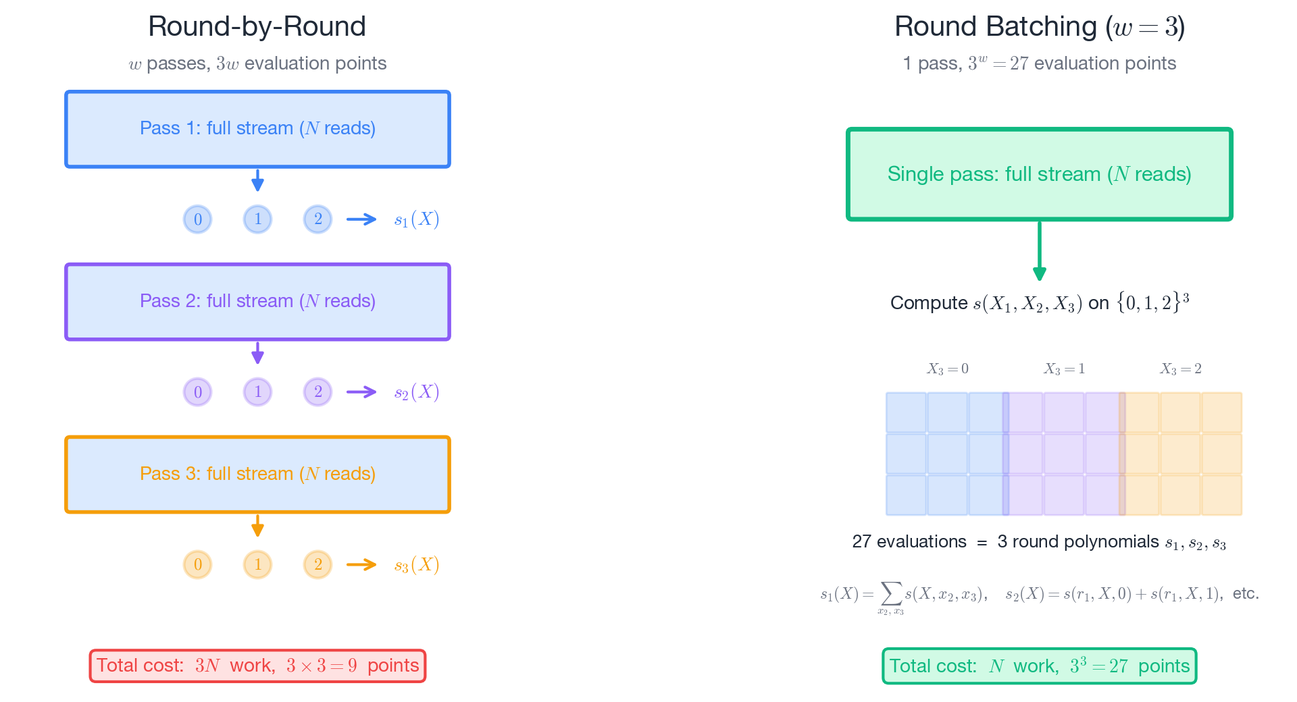
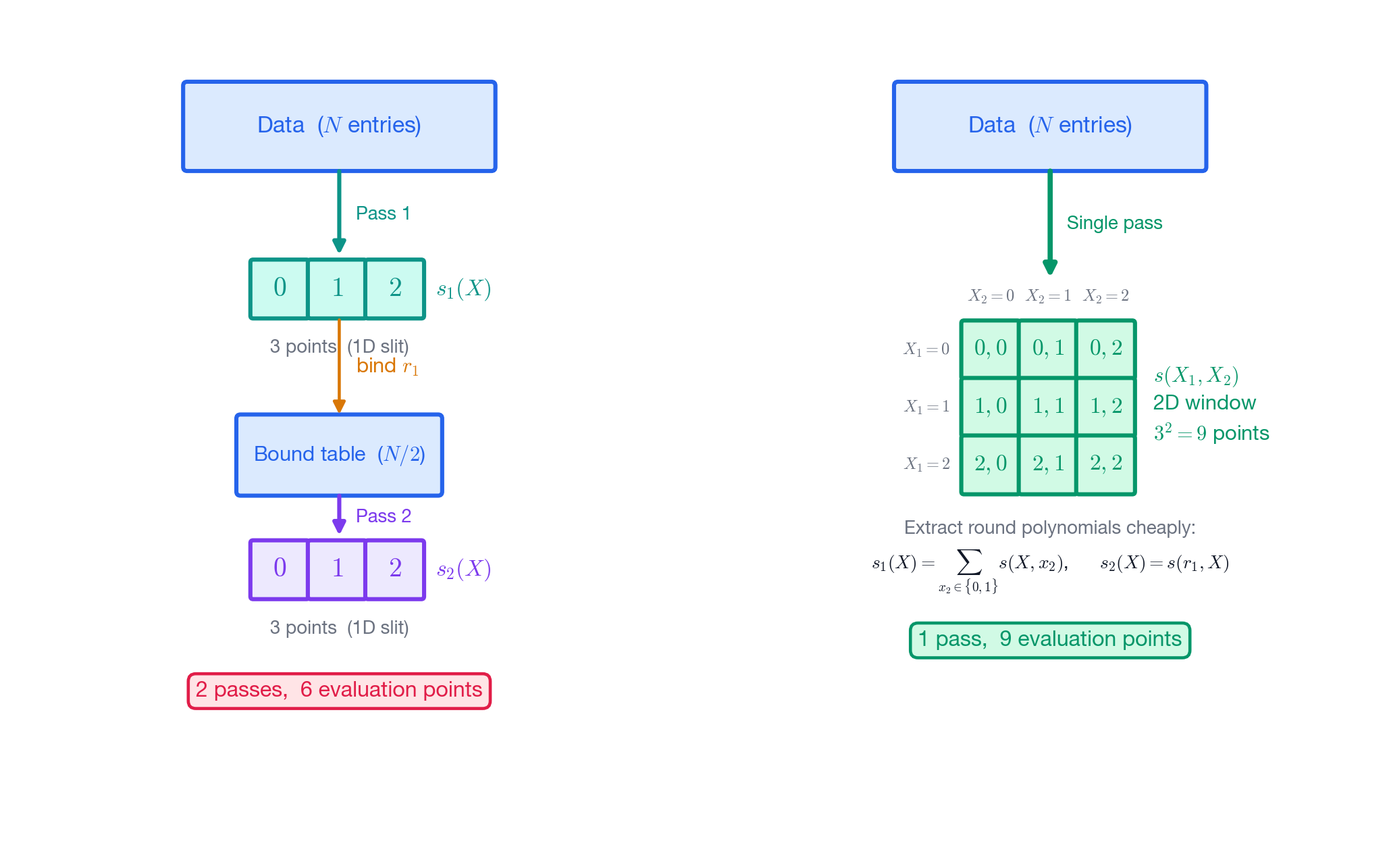
Tighten blog post prose, update figures, and move captions to markdown
- Light edit pass: reduce redundancy, fix grammar, tighten phrasing
  across all sections (main body now ~4.5k words)
- Fix LaTeX rendering issue with underscore-as-emphasis in inline math
- Update date to 2026-02-17
- Regenerate all three figures: remove embedded titles/captions,
  fix arrow anchoring (border-to-border), lengthen bind arrows,
  improve panel spacing in round-batching figure
- Move figure titles and captions into markdown using <figure>/<figcaption>

diff --git a/website/content/2025/sumcheck-proving.md b/website/content/2025/sumcheck-proving.md
@@ -2,7 +2,7 @@
 # The title of your blogpost. No sub-titles are allowed, nor are line-breaks.
 title = "Algorithms for the Sum-check Protocol"
 # Date must be written in YYYY-MM-DD format. This should be updated right before the final PR is made.
-date = 2025-11-25
+date = 2026-02-17
 
 [taxonomies]
 # Keep any areas that apply, removing ones that don't. Do not add new areas!
@@ -32,16 +32,15 @@ committee = [
 2. Word count is suggested around 2.5k words, but can be up to 5k words
 3. Everything should be understandable, well motivated, details laid out clearly -->
 
-# The Need for Verifiability
+## How to Verify Private (or Expensive) Computations
 
-We increasingly rely on computational results that we cannot feasibly verify ourselves. Such verification barriers come in two forms. First, the computation may involve private data that cannot be shared, such as financial audits, medical studies, and proprietary algorithms. Second, even when data is public, re-executing the computation may be prohibitively expensive: large scientific analyses might require days of cluster time on terabytes of data. How can we trust that such computations were performed correctly?
+We increasingly rely on computational results we cannot feasibly verify ourselves. In many cases, the computation involves private data that cannot be shared, such as financial audits, medical studies, or proprietary algorithms, making it impossible for other parties to re-run. In other cases, the data is public but re-executing the computation is prohibitively expensive: large scientific analyses might require days of cluster time on terabytes of data. How can we trust that such computations were performed correctly?
 
-Cryptographic proof systems solve this dilemma. Such protocols let an untrusted prover, who possesses some private data, convince a verifier that the data satisfies a public property. For example, this could include proving that you are over 18 or that your account has sufficient balance, without revealing any additional information, such as your full date of birth or your financial history. Furthermore, the proofs or certificates produced by such systems are relatively short, and can be verified in a matter of milliseconds, rather than the potential hours or days required to re-execute the computation. This saving further compounds if there are _many_ parties that need to verify the result.
+Cryptographic proof systems address this dilemma. They let an untrusted prover convince a verifier that some private data satisfies a public statement. For instance, you can prove that you are over 18 or that your account has sufficient balance without revealing your birthdate or financial history. Proofs are short and fast to verify—milliseconds rather than hours or days—so the savings compound when _many_ parties need to check the same result.
 
 Over the past decade, cryptographic proof systems have matured from theoretical curiosities into practical tools used for a variety of applications, including age verification [1] and blockchain scalability [2]. To make developing proof systems for each application easier, the community is converging on a common framework: _zero-knowledge virtual machines (zkVMs)_.
 
-A zkVM is a virtual computer that can run any 
-program (compiled to a common instruction-set architecture like RISC-V) and produce a certificate proving that the execution is correct. This allows developers to write programs in high-level languages like Rust or Python, compile them to RISC-V, and prove their execution correctness, all without needing deep cryptographic expertise. As these systems see wider adoption, prover efficiency becomes paramount: even for the fastest zkVMs, generating a proof is still 50,000 to 100,000 times slower than running the computation natively. Teams across academia and industry are racing to close this gap.
+A zkVM is a virtual computer that can run a program (compiled to a common instruction-set architecture like RISC-V) and produce a certificate proving that the execution was correct. This lets developers write programs in high-level languages like Rust or Python, compile them to RISC-V, and generate proofs without needing deep cryptographic expertise. As these systems see wider adoption, prover efficiency becomes paramount: even for the fastest zkVMs, generating a proof is still about 50,000 times slower than running the computation natively. Teams across academia and industry are racing to close this gap.
 
 Many state-of-the-art zkVMs, such as Jolt [3], owe much of their performance to a classical protocol from 1992: the sum-check protocol [4]. But sum-check's very success has made it a bottleneck—in Jolt, it consumes about 70% of the total proving time for large programs. In this blog post, I will introduce the sum-check protocol, detail well-known algorithms for its prover, and present a new technique that speeds up the prover in settings relevant to zkVMs, which I am currently integrating into Jolt.
 
@@ -66,11 +65,7 @@ If the original claim is correct, then \\( s_1(X) \\) has degree at most \\( d \
 \\( s_1(0) + s_1(1) = c \\).
 The verifier checks precisely these two conditions, and rejects if either fails.
 
-If both checks pass, the verifier samples a random challenge \\( r_1 \gets \mathbb{F} \\) and sends it to the prover.
-The point of this random challenge is to "pin down" the prover’s behavior at a point of the verifier’s choice:
-if the prover has lied about \\( s_1(X) \\), then with high probability (at most \\( d / \lvert \mathbb{F} \rvert \\))
-the fake \\( s_1 \\) will disagree with the true polynomial at \\( X = r_1 \\).
-If we set the finite field size to be sufficiently large, e.g., at least 128 bits for cryptographic security, then this probability is truly negligible.
+If both checks pass, the verifier samples a random challenge \\( r_1 \gets \mathbb{F} \\) and sends it to the prover. This random point forces consistency: if the prover sent a fake low-degree \\( s_1 \\), then except with probability at most \\( d / \lvert \mathbb{F} \rvert \\), it will disagree with the honest slice at \\( X=r_1 \\). Over a sufficiently large field (e.g., at least 128-bit), this error probability is negligible.
 
 After this first round of interaction, the prover and verifier have effectively reduced the problem to showing that
 $$
@@ -85,7 +80,7 @@ $$
     s_2(X) = \sum_{(x_3,\dots,x_n) \in \\{0,1\\}^{n-2}} p_1(X, x_3,\dots,x_n),
 $$
 the verifier again checks the degree and the equation \\( s_2(0) + s_2(1) = c_1 \\),
-samples a fresh random \\( r_2 \gets \mathbb{F} \\), sets the new claim \\( c_2 := s_2(r_2) \\), and continue.
+samples a fresh random \\( r_2 \gets \mathbb{F} \\), sets the new claim \\( c_2 := s_2(r_2) \\), and continues.
 
 After \\( n \\) rounds, all variables have been fixed to random challenges \\( r_1,\dots,r_n \in \mathbb{F} \\),
 and the verifier is left with a single claim of the form
@@ -96,7 +91,7 @@ that it can check directly using its oracle access to \\( p \\).
 
 What properties does the sum-check protocol satisfy? The first is **completeness**. If the original sum claim is correct and the prover follows the rules, then every round’s check passes, and at the end we really do have \\( p(r_1,\dots,r_n) = c_n \\), so the verifier accepts.
 
-The more interesting property is **soundness**, which is about what happens when the original claim is actually false. In that case, no matter how a (possibly malicious) prover behaves, at some round it must send a polynomial that is not the "right" one. Two different low-degree polynomials over a field can only agree on a small fraction of inputs (a fact known as the Schwartz–Zippel lemma [5]); thus, a random challenge \\( r_i \\) will land on a point where they differ except with probability at most \\( d / \lvert \mathbb{F}\rvert \\). Thus, even when the claim is wrong, a cheating prover can make the verifier accept only with negligible probability.
+The more interesting property is **soundness**, which is about what happens when the original claim is false. In that case, no matter how a (possibly malicious) prover behaves, at some round it must send a polynomial that is not the "right" one. By the Schwartz–Zippel lemma [5], two different degree-\\( d \\) polynomials over a field agree on at most a \\( d / \lvert \mathbb{F}\rvert \\) fraction of points, so a random challenge \\( r_i \\) catches the lie except with that probability. With a large field, this is negligible.
 
 ## Brief Interlude on Multilinear Polynomials
 
@@ -106,15 +101,13 @@ we first transform the computation trace—such as the values of all registers o
 intermediate constraint values—into polynomials, and then we use sum-check to reason about those polynomials instead of the
 original computation.
 
-The arithmetization method used in sum-check-based proof systems is to turn these traces and constraint tables into
-**multilinear polynomials**.
+In many sum-check-based proof systems, the traces and constraint tables are represented as **multilinear polynomials**.
 A multilinear polynomial is a multivariate polynomial where each variable appears with degree at most \\( 1 \\).
 For instance,
 $$
     q(X_1, X_2, X_3) = 3X_1 X_3 + 2X_2 + 5
 $$
-is multilinear, while \\( X_1^2 + X_2 \\) is not. A key fact is that a multilinear polynomial in \\( n \\) variables is _uniquely_
-determined by its values on the \\( 2^n \\) points of the **Boolean hypercube** \\( \\{0,1\\}^n \\). This gives a natural encoding of a length-\\( 2^n \\) vector \\( \mathbf{v}=(v_0,\dots,v_{2^n-1}) \\) over the finite field \\( \mathbb{F} \\).
+is multilinear, while \\( X_1^2 + X_2 \\) is not. A key fact is that a multilinear polynomial in \\( n \\) variables is uniquely determined by its values on the \\( 2^n \\) points of the **Boolean hypercube** \\( \\{0,1\\}^n \\). This gives a natural way to encode a length-\\( 2^n \\) vector \\( \mathbf{v}=(v_0,\dots,v_{2^n-1}) \\) over \\( \mathbb{F} \\).
 
 We can also make this encoding precise with a mathematical formula. Given a function \\( p : \\{0,1\\}^n \to \mathbb{F} \\) (for example, a vector of trace or constraint values indexed by
 \\( y \in \\{0,1\\}^n \\)), its **multilinear extension** is the _unique_ multilinear polynomial \\( \widetilde{p}(X_1,\dots,X_n) \\)
@@ -126,8 +119,7 @@ where the **equality polynomial** \\( \widetilde{eq} \\) is defined by
 $$
     \widetilde{eq}(\vec{X}, \vec{Y}) = \prod_{i=1}^n \big((1 - X_i)(1 - Y_i) + X_i Y_i\big).
 $$
-You should think of \\( \widetilde{eq} \\) as the indicator function of the equality relation on the Boolean hypercube. Indeed, for any \\( \vec{x}, \vec{y} \in \\{0,1\\}^n \\), we have \\( \widetilde{eq}(\vec{x}, \vec{y}) = 1 \\) if \\( \vec{x} = \vec{y} \\)
-and \\( 0 \\) otherwise. Plugging this into the multilinear extension formula, we can see that each term in the sum "picks out" the value \\( p(y) \\) at exactly one point on the hypercube, thanks to the equality polynomial \\( \widetilde{eq}(\vec{X}, y) \\).
+You can think of \\( \widetilde{eq} \\) as an indicator for equality on the Boolean hypercube: for any \\( \vec{x}, \vec{y} \in \\{0,1\\}^n \\), \\( \widetilde{eq}(\vec{x}, \vec{y}) = 1 \\) if \\( \vec{x} = \vec{y} \\) and \\( 0 \\) otherwise. Plugging this into the formula above, each term in the sum "picks out" \\( p(y) \\) at a single Boolean point.
 
 As a small example, the 2-variate multilinear extension is given by
 $$ \begin{aligned} p(X_1, X_2) = p(0,0) \cdot (1 - X_1)(1 - X_2) &+ p(0,1) \cdot (1 - X_1)X_2 \\\ + p(1,0) \cdot X_1(1 - X_2)& + p(1,1) \cdot X_1 X_2.
@@ -156,15 +148,11 @@ This pointwise condition can be bundled into a single sum over the hypercube. De
 $$
     g(x_1, x_2) = p(x_1, x_2) \cdot q(x_1, x_2),
 $$
-and consider the claim that
-$$
-    g(x_1, x_2) = 0 \quad \text{for all } (x_1, x_2) \in \\{0,1\\}^2.
-$$
-This claim is equivalent to saying that the multilinear extension \\( \widetilde{g} \\) should vanish on all Boolean points. In other words,
+and consider the claim that \\( g \\) vanishes on all Boolean points. This is equivalent to saying that the multilinear extension \\( \widetilde{g} \\) is identically zero on \\( \\{0,1\\}^2 \\). In other words,
 $$
     \sum_{(x_1, x_2) \in \\{0,1\\}^2} \widetilde{eq}\big((X_1, X_2), (x_1, x_2)\big) \cdot p(x_1, x_2) \cdot q(x_1, x_2) = 0
 $$
-as multilinear polynomials. We now reduce this to a sum-check instance by sampling a random point \\( (r_1, r_2) \in \mathbb{F}^2 \\) and checking that the polynomial vanishes at this point:
+as multilinear polynomials. We reduce this to a sum-check instance by sampling a random point \\( (r_1, r_2) \in \mathbb{F}^2 \\) and checking that it vanishes at that point:
 $$
     \sum_{(x_1, x_2) \in \\{0,1\\}^2} \widetilde{eq}\big((r_1, r_2), (x_1, x_2)\big) \cdot p(x_1, x_2) \cdot q(x_1, x_2) = 0.
 $$
@@ -173,21 +161,21 @@ we check a **single** polynomial identity at a random point. Our exposition gene
 
 ## Existing Algorithms for Sum-Check
 
-We now turn to algorithms for the prover. We will focus on the most common setting in modern proof systems: sum-check over a low-degree function applied to one or more multilinear polynomials. This captures many real applications, such as the batched zero-check we saw earlier. To simplify the exposition, we further specialize to the case of a product of two multilinear polynomials
+We now turn to prover algorithms. We will focus on the most common setting in modern proof systems: sum-check over a low-degree function applied to one or more multilinear polynomials. This captures many real applications, including the batched zero-check above. To simplify the exposition, we further specialize to the case of a product of two multilinear polynomials
 $$
     \sum_{x \in \\{0,1\\}^n} p(x) \cdot q(x) = c,
 $$
-where \\( p, q : \\{0,1\\}^n \to \mathbb{F} \\) are given by their evaluations on the Boolean hypercube. The algorithms we cover straightforwardly generalize to the product of arbitrary number of multilinear polynomials.
+where \\( p, q : \\{0,1\\}^n \to \mathbb{F} \\) are given by their evaluations on the Boolean hypercube. The algorithms we cover straightforwardly generalize to the product of an arbitrary number of multilinear polynomials.
 
 ### Linear-time algorithm
 
-The first prover algorithm we consider, following Vu, Setty, Blumberg, and Walfish [6] and Thaler [7], runs in linear time in the number of summands (which is \\( N = 2^n \\)). This algorithm is key to the efficiency of sum-check, as we can prove a statement (like a batched zero-check) with only a constant-factor computational overhead.
+The first prover algorithm we consider, following Vu, Setty, Blumberg, and Walfish [6] and Thaler [7], runs in linear time in the number of summands \\( N = 2^n \\). This is the main setting in many proof systems: it proves statements (like a batched zero-check) with only a constant-factor overhead.
 
 Recall that in the first round of sum-check, the prover needs to compute and send the univariate polynomial
 $$
     s_1(X) = \sum_{(x_2,\dots,x_n) \in \\{0,1\\}^{n-1}} p(X, x_2,\dots,x_n) \cdot q(X, x_2,\dots,x_n).
 $$
-Since \\( s_1(X) \\) has degree at most \\( 2 \\), it is completely determined by its evaluations on three distinct points, which we may choose to be \\( s_1(0), s_1(1) \\), and \\( s_1(2) \\). The prover can compute these in a single pass over the \\( 2^n \\) evaluations of \\( p \\) and \\( q \\), using three accumulators (one for each of \\( s_1(0) \\), \\( s_1(1) \\), \\( s_1(2) \\)), all initialized to zero. For each point \\( x' = (x_2,\dots,x_n) \in \\{0,1\\}^{n-1} \\), the prover looks up the evaluations of \\( p \\) and \\( q \\) at \\( (0,x') \\) and \\( (1,x') \\), and adds the corresponding product to each accumulator:
+Since \\( s_1(X) \\) has degree at most \\( 2 \\), it is determined by its values at any three points, say \\( 0,1,2 \\). The prover computes \\( s_1(0), s_1(1), s_1(2) \\) in a single pass over the \\( 2^n \\) evaluations of \\( p \\) and \\( q \\), using three accumulators initialized to zero. For each \\( x' = (x_2,\dots,x_n) \in \\{0,1\\}^{n-1} \\), it looks up \\( p \\) and \\( q \\) at \\( (0,x') \\) and \\( (1,x') \\), and adds the corresponding contributions:
 $$
     % \begin{cases}
     s_1(0) \mathrel{+}= p(0, x') \cdot q(0, x'),\quad
@@ -204,33 +192,36 @@ $$
  p(2, x') \cdot q(2, x') = (2 \cdot p(1, x') - p(0, x')) \cdot (2 \cdot q(1, x') - q(0, x')).
 $$
 
-After the verifier sends a random challenge \\( r_1 \\), the prover needs the “bound” polynomials
+After the verifier sends a random challenge \\( r_1 \\), the prover needs the _bound_ polynomials
 $$
     p_{1}(x_2,\dots,x_n) := p(r_1, x_2,\dots,x_n), \quad
     q_{1}(x_2,\dots,x_n) := q(r_1, x_2,\dots,x_n)
 $$
-in order to continue the protocol on \\( n-1 \\) variables. The linear-time algorithm explicitly computes and stores the evaluations of \\( p_{1} \\) and \\( q_{1} \\) on all \\( 2^{n-1} \\) points of \\( \\{0,1\\}^{n-1} \\). It does so by making another pass over the original evaluation tables \\( (p(x))_{x \in \\{0,1\\}^n} \\) and \\( (q(x))_{x \in \\{0,1\\}^n} \\) and computing, for each \\( (x_2,\dots,x_n) \in \\{0,1\\}^{n-1} \\), the bound evaluations via linear interpolation:
+in order to continue the protocol on \\( n-1 \\) variables. The linear-time algorithm explicitly computes and stores the evaluations of \\( p_{1} \\) and \\( q_{1} \\) on all \\( 2^{n-1} \\) points of \\( \\{0,1\\}^{n-1} \\). It does so by making another pass over the original evaluation tables \\( (p(x))\_{x \in \\{0,1\\}^n} \\) and \\( (q(x))\_{x \in \\{0,1\\}^n} \\) and computing, for each \\( (x_2,\dots,x_n) \in \\{0,1\\}^{n-1} \\), the bound evaluations via linear interpolation:
 $$ p_{1}(x_2,\dots,x_n) = (1 - r_1) \cdot p(0, x_2,\dots,x_n) + r_1 \cdot p(1, x_2,\dots,x_n),$$
 $$q_{1}(x_2,\dots,x_n) = (1 - r_1) \cdot q(0, x_2,\dots,x_n) + r_1 \cdot q(1, x_2,\dots,x_n).$$
 These new vectors of size \\( 2^{n-1} \\) serve as the "input data" for the next round: they play the same role that the original evaluation tables of \\( p \\) and \\( q \\) played in the first round, but for the reduced \\( (n{-}1) \\)-variable problem. In each subsequent round \\( i = 2, 3, \dots, n \\), the prover repeats the same pattern on these smaller vectors of evaluations to compute \\( s_i \\), then binds the next challenge \\( r_i \\) and shrinks the vectors of evaluations again, and so on.
 
-**Cost Analysis:** Given the description of the sum-check prover, it is clear that in round \\( i \\), the prover needs to perform \\( O(2^{n -i}) \\) number of field operations (additions, subtractions, and multiplications). Summing over all rounds, the total work is therefore linear in the number of summands \\( N = 2^n \\):
+**Cost Analysis:** In round \\( i \\), the prover performs \\( O(2^{n-i}) \\) field operations. Summing over rounds, the total work is linear in \\( N = 2^n \\):
 $$
     O(2^n + 2^{n-1} + \dots + 1) = O(2^n).
 $$
-![Figure 1: The linear-time sum-check prover. The evaluation table halves at each round, giving O(N) total work but requiring O(N) RAM.](./fig-linear-time.png)
+<figure>
+  <img src="./fig-linear-time.png" alt="Linear-time sum-check prover illustration." />
+  <figcaption><strong>Figure 1 (Linear-time prover).</strong> The prover computes the round polynomial \(s_i\), then binds the verifier challenge \(r_i\), halving the evaluation table each round. Total work is \(O(N)\), but it requires \(O(N)\) RAM to store bound tables.</figcaption>
+</figure>
 
-One downside of this algorithm is the need to keep **linear** storage (for instance, starting from round \\( 2 \\), where the prover needs to store \\( p_1 \\) and \\( q_1 \\)). This linear-space usage may be fine for small-to-medium sum-check instances, but eventually will become a bottleneck. Concretely, this means that on consumer hardware with (say) 16GB of RAM, we can prove a few dozen millions cycles of RISC-V program execution, but not a billion cycles. As RAM is a limited resource, this limitation motivates us to look for algorithms that use fewer memory, even at the cost of some extra recomputation.
+One downside of this algorithm is the need for **linear** storage: starting from round \\( 2 \\), the prover must store \\( p_1 \\) and \\( q_1 \\). This may be fine for small-to-medium instances, but it eventually becomes a bottleneck. Concretely, on consumer hardware with (say) 16GB of RAM, we can prove a few dozen million cycles of RISC-V execution, but not a billion. This motivates algorithms that use less memory, even at the cost of extra computation.
 
 ### Streaming algorithm with logarithmic space
 
-We now present another classic sum-check proving algorithm, by Cormode, Mitzenmacher, and Thaler [8], that is much more memory efficient.
-The setting is the following. Assume there is enough persistent storage (for example, on disk) to hold all evaluations of \\( p \\) and \\( q \\) on \\( \\{0,1\\}^n \\), but not enough RAM to store the intermediate “bound” evaluation values of \\( p_1 \\), \\( q_1 \\), and so on. Alternatively, we can generate the original evaluations of \\( p \\) and \\( q \\) cheaply on the fly, but do not have space to cache all of the bound evaluations.
+We now present another classic sum-check proving algorithm due to Cormode, Mitzenmacher, and Thaler [8] that is far more memory efficient.
+Assume there is enough persistent storage (e.g., on disk) to hold all evaluations of \\( p \\) and \\( q \\) on \\( \\{0,1\\}^n \\), but not enough RAM to store intermediate bound tables like \\( p_1 \\), \\( q_1 \\), and so on. (Equivalently, we can generate the original evaluations cheaply on the fly but cannot afford to cache the bound evaluations.)
 
-In this setting, the prover will need to perform a streaming pass over the original data in order to compute the univariate polynomial \\( s_i(X) \\) for each round \\( i \\). Recall that this polynomial is determined by its evaluations at \\( u \in \\{0,1,2\\} \\):
+In this setting, the prover makes a streaming pass over the original data in each round \\( i \\) to compute the univariate polynomial \\( s_i(X) \\). This polynomial is determined by its evaluations at \\( u \in \\{0,1,2\\} \\):
 $$
-    s_i(u) = \sum_{(x_{i+1},\dots,x_n) \in \\{0,1\\}^{n-i}} p(r_1,\dots,r_{i-1}, X, x_{i+1},\dots,x_n)
-                                           \cdot q(r_1,\dots,r_{i-1}, X, x_{i+1},\dots,x_n).
+    s_i(u) = \sum_{(x_{i+1},\dots,x_n) \in \\{0,1\\}^{n-i}} p(r_1,\dots,r_{i-1}, u, x_{i+1},\dots,x_n)
+                                           \cdot q(r_1,\dots,r_{i-1}, u, x_{i+1},\dots,x_n).
 $$
 By the multilinear extension formula and the equality polynomial introduced earlier, we can write these partially bound evaluations as a further sum
 $$
@@ -238,23 +229,26 @@ $$
 $$
 and the same holds for \\( q \\).
 
-In other words, \\( p \\) at a partially bound point \\( (r_1,\dots,r_{i-1}, u, x_{i+1},\dots,x_n) \\) is just a weighted sum of the original evaluations \\( p(y, u, x_{i+1},\dots,x_n) \\) over all \\( y \in \\{0,1\\}^{i-1} \\). Note that here \\( y \\) is a vector of \\( i-1 \\) bits representing the prefix, and since \\( u \in \\{0,1\\} \\) and \\( (x_{i+1},\dots,x_n) \in \\{0,1\\}^{n-i} \\), each such evaluation is a value from the original evaluation tables stored on disk. The weight \\( \widetilde{eq}((r_1,\dots,r_{i-1}), y) \\) depends only on the prefix \\( y \\) and the challenges so far.
+In other words, \\( p \\) at a partially bound point \\( (r_1,\dots,r_{i-1}, u, x_{i+1},\dots,x_n) \\) is a weighted sum of original evaluations \\( p(y, u, x_{i+1},\dots,x_n) \\) over all prefixes \\( y \in \\{0,1\\}^{i-1} \\), where the weight \\( \widetilde{eq}((r_1,\dots,r_{i-1}), y) \\) depends only on the challenges so far.
 
-This observation translates directly into a streaming algorithm. To compute the three required values \\( s_i(0), s_i(1), s_i(2) \\) for round \\( i \\), the prover can do the following:
+This leads to a streaming algorithm. To compute \\( s_i(0), s_i(1), s_i(2) \\) in round \\( i \\), the prover can do the following:
 1.  **Initialize:** Set three accumulators for \\( s_i(0), s_i(1), s_i(2) \\) to zero.
-2.  **Stream:** Read the original evaluation stream \\( p(x), q(x) \\) over all \\( x \in \\{0,1\\}^n \\), split into chunks of size \\( 2^{i} \\) that agrees on the suffix \\( x_{i+1},\dots,x_n \\).
-3.  **Update:** For each chunk, compute the appropriate weights based on the current round \\( i \\) and challenges \\( r_1, \dots, r_{i-1} \\) for the prefix \\( y = (x_1,\dots,x_i) \\). Importantly, the equality-polynomial weights can be computed on-the-fly in \\( O(2^i) \\) time based on the challenges \\( r_1, \dots, r_{i-1} \\). Add the weighted product terms to the respective accumulators.
+2.  **Stream:** Read the evaluation stream \\( p(x), q(x) \\) over all \\( x \in \\{0,1\\}^n \\), split into chunks of size \\( 2^{i} \\) that agree on the suffix \\( x_{i+1},\dots,x_n \\).
+3.  **Update:** For each chunk, compute the equality-polynomial weights for the prefix \\( y = (x_1,\dots,x_i) \\) from the challenges \\( r_1, \dots, r_{i-1} \\), and add the weighted product terms to the accumulators.
 4.  **Interpolate:** Once the stream is finished, the accumulators hold \\( s_i(0), s_i(1), s_i(2) \\). Use these to recover the polynomial \\( s_i(X) \\).
 
-This method never stores any intermediate "bound" tables. Instead, every round re-reads the original \\( N \\) values from the stream. This dramatically reduces the memory footprint to just \\( O(n) \\) for storing the challenges and accumulators (or \\( O(\log N) \\)).
+This method never stores intermediate _bound_ tables. Instead, every round re-reads the original \\( N \\) values from the stream, using only \\( O(n) \\) space for challenges and accumulators.
 
 **Cost Analysis:**
 *   **Time:** We iterate over the full stream of size \\( N \\) for each of the \\( n \\) rounds. The total work is \\( O(n \cdot N) = O(N \log N) \\), making this a **quasilinear-time** algorithm.
 *   **Space:** This is only \\( O(n) = O(\log N) \\) since we only need to store the \\( n \\) challenges and the three accumulators over all rounds.
 
-![Figure 2: The streaming sum-check prover. Each round re-reads the full original data from disk, but uses only O(log N) RAM.](./fig-streaming.png)
+<figure>
+  <img src="./fig-streaming.png" alt="Streaming sum-check prover illustration." />
+  <figcaption><strong>Figure 2 (Streaming prover).</strong> Each round re-reads the original evaluations \(p(x), q(x)\) and applies different weights derived from the challenges. This uses only \(O(\log N)\) RAM, but costs \(O(N \log N)\) work.</figcaption>
+</figure>
 
-This \\( O(\log N) \\)-space algorithm allows proving much larger statements than the linear-space approach, limited only by disk capacity or regeneration time rather than RAM. In practice, implementations often use a hybrid approach: stream for the first few rounds until the effective problem size shrinks enough to fit in memory (which happens before the halfway point in the protocol), then switch to the faster linear-time algorithm. However, this still leads to a large overhead compared to the linear-time algorithm, up to an order of magnitude for large instances (with \\( n \approx 30 \\)).
+This \\( O(\log N) \\)-space algorithm allows proving much larger statements than the linear-space approach, limited by disk capacity or regeneration time rather than RAM. In practice, implementations often use a hybrid approach: stream for the first few rounds until the effective problem size shrinks enough to fit in memory, then switch to the faster linear-time algorithm. Even so, the streaming phase can add substantial overhead for large instances (e.g., \\( n \approx 30 \\)).
 
 ## New Idea: Round Batching and its Benefits
 
@@ -262,7 +256,7 @@ Both the linear-time and the CMT streaming algorithm share a common structure: t
 
 What if we could break this sequential dependency? Instead of computing just one round at a time, could the prover compute, say, rounds 1 and 2 simultaneously? Or any number of consecutive rounds at once?
 
-This is the idea behind **round batching**, a technique that is recently introduced in my work [9] and the work of Bajewa et al. [10] (the latter is improved in another in-preparation work of mine). The idea turns out to bring efficiency gains for both algorithms above, especially in the setting of proving program execution. I will first discuss the mechanics of round batching, and then discuss the benefits in more detail.
+This is the idea behind **round batching**, introduced in my work [9] and independently in Baweja et al. [10] (with further improvements in follow-up work). It can speed up both prover algorithms above, especially in settings relevant to proving program execution.
 
 At first glance, this proposal seems impossible: the prover cannot know the claim for round 2 without knowing the challenge \\( r_1 \\) from round 1. The key observation is that the prover can compute a response that is **oblivious** to the future challenges. This is achieved by computing a _bivariate_ polynomial
 $$
@@ -275,13 +269,13 @@ More generally, if we want to compute \\( w \\) consecutive rounds at once, star
 $$
     s(X_1, \dots, X_w) = \sum_{x' \in \\{0,1\\}^{n-w-i}} p(r_1, \dots, r_{i-1}, X_1, \dots, X_w, x') \cdot q(r_1, \dots, r_{i-1}, X_1, \dots, X_w, x').
 $$
-Once the prover has computed this polynomial, the next \\( w \\) rounds of the sum-check protocol reduces to doing sum-check over the \\( w \\)-variate polynomial \\( s \\) itself:
+Once the prover has computed this polynomial, the next \\( w \\) rounds of the protocol reduce to running sum-check on the \\( w \\)-variate polynomial \\( s \\) itself:
 $$
 \sum_{x \in \\{0,1\\}^w} s(x) = c_i,
 $$
 as we saw in our example above with \\( i=1 \\) and \\( w=2 \\).
 
-Since \\( w \\) is often much smaller than \\( n \\), this sum-check instance is trivial to prove. The main cost is in computing \\( s(X_1, \dots, X_w) \\) itself. Since \\( s \\) is a **multi-quadratic** polynomial (having degree at most \\( 2 \\) in each variable), it is completely determined by its evaluations on the \\( \\{0,1,2\\}^w \\) grid. For instance, if \\( w = 2 \\), we can compute one of these evaluations (say \\( s(1, 2) \\)) as
+Since \\( w \\) is often much smaller than \\( n \\), this inner sum-check is easy; the main cost is computing \\( s(X_1, \dots, X_w) \\) itself. Because \\( s \\) is **multi-quadratic** (degree at most \\( 2 \\) in each variable), it is determined by its values on the \\( \\{0,1,2\\}^w \\) grid. For instance, if \\( w = 2 \\), one evaluation (say \\( s(1,2) \\)) is
 $$
     s(1, 2) = \sum_{x' \in \\{0,1\\}^{n-2}} p(r_1, \dots, r_{i-1}, 1, 2, x') \cdot q(r_1, \dots, r_{i-1}, 1, 2, x') $$
 $$
@@ -291,15 +285,18 @@ $$
     \qquad\qquad\qquad \cdot (2 \cdot q(r_1, \dots, r_{i-1}, 1, 1, x') - q(r_1, \dots, r_{i-1}, 1, 0, x')).
 $$
 
-![Figure 3: Round batching vs round-by-round. Batching w rounds into one pass trades more evaluation points for fewer streaming passes.](./fig-round-batching.png)
+<figure>
+  <img src="./fig-round-batching.png" alt="Round batching illustration comparing round-by-round vs batching." />
+  <figcaption><strong>Figure 3 (Round batching).</strong> Batching \(w\) rounds replaces a sequence of 1D “slits” (few evaluation points per round, multiple passes) with a \(w\)-dimensional “window” (more evaluation points, fewer passes).</figcaption>
+</figure>
 
-**The apparent cost.** At first glance, round batching seems to be strictly slower. In the round-by-round sum-check algorithms (whether linear-time or streaming), we only need to compute \\( 3 \\) evaluations of a quadratic polynomial every round (or \\( d+1 \\) evaluations for a general sum-check instance over a degree-\\( d \\) product of multilinears). With round batching of window \\( w \\), we need to compute \\( 3^w \\) (or \\( (d+1)^w \\) in the general case) evaluations over the \\( w \\) rounds. If we had computed round-by-round evaluations instead, this number is only \\( w \cdot (d+1) \\). The gap between \\( (d+1)^w \\) and \\( w \cdot (d+1) \\) grows very quickly - for instance, with \\( d = 2 \\) and \\( w = 3 \\), we are computing **three** times as many evaluations by batching three rounds together. Why do we even bother to explore this approach?
+**The apparent cost.** At first glance, round batching looks slower. Round-by-round sum-check computes \\( 3 \\) evaluations of a quadratic polynomial per round (or \\( d+1 \\) evaluations for degree \\( d \\)). With a batching window \\( w \\), we compute \\( 3^w \\) evaluations (or \\( (d+1)^w \\)) over those \\( w \\) rounds, instead of \\( w \cdot (d+1) \\). This gap grows quickly: with \\( d = 2 \\) and \\( w = 3 \\), batching computes **three** times as many evaluations.
 
 ### Why does round batching help?
 
 The key insight is that the cost of computing evaluations is not equal across all rounds. In particular, there are two settings where round batching leads to a speedup despite the apparent extra work.
 
-**Small-field arithmetic at the start.** In zkVMs, the underlying data (register values, memory contents) are small—typically 64-bit integers—while the proof system operates over a large, often 128-bit or even 256-bit field. Arithmetic with 64-bit integers are about **10-50x** faster compared to generic field multiplication.
+**Small-field arithmetic at the start.** In zkVMs, the underlying data (register values, memory contents) are small—typically 64-bit integers—while the proof system operates over a large field (often 128-bit or 256-bit). Arithmetic with 64-bit integers is about **10–50x** faster than full field multiplication.
 
 For sum-check involving these small values, the prover enjoys a speedup in the first round, since the original evaluations
 $$ (p(x), q(x))\_{x \in \\{0,1\\}^n} $$
@@ -307,24 +304,23 @@ are small. However, this speedup goes away in later rounds, since the bound eval
 \\[ ( p(r_1, \dots, r_{i-1},x), q(r_1, \dots, r_{i-1}, x))_{x \in \\{0,1\\}^{n-i}} \\]
 are full field elements.
 
-Round batching allows the prover to enjoy cheap multiplications in the first \\( w > 1 \\) rounds. Indeed, applying the technique to the first \\( w \\) rounds means that the prover needs to compute the evaluations
+Round batching extends this cheap-multiplication regime to the first \\( w>1 \\) rounds. Applying batching to the first \\( w \\) rounds means the prover computes evaluations of
 $$
 s(x_1, \dots, x_w) = \sum_{x' \in \\{0,1\\}^{n-w}} p(x_1, \dots, x_w, x') \cdot q(x_1, \dots, x_w, x').
 $$
-Since the original evaluations $$(p(x), q(x))\_{x \in \\{0,1\\}^n} $$ are small, the extended evaluations $$ ( p(x_1, \dots, x_w, x'), q(x_1, \dots, x_w, x'))_{(x_1, \dots, x_w) \in \\{0,1,2\\}^w, x' \in \\{0,1\\}^{n-w}}$$
-are also small, since they are simple linear combinations of the original ones. Thus, round batching trades off expensive field multiplication that would have been incurred in rounds \\( 2, \dots, w \\), with a larger number of much cheaper small multiplications. In practice, we can set \\( w \approx 3 \\) for about a \\( 2-3\times \\) speedup in prover time.
+Since the original evaluations $$(p(x), q(x))\_{x \in \\{0,1\\}^n}$$ are small, the extended evaluations over \\( \\{0,1,2\\}^w \\) are also small (they are simple linear combinations). Thus, batching trades expensive field multiplications from rounds \\( 2,\dots,w \\) for a larger number of much cheaper small multiplications. In practice, \\( w \\approx 3 \\) can yield a \\( 2\text{–}3\\times \\) prover speedup.
 
 **Fewer streaming passes.** Recall that in the CMT streaming algorithm, the prover needs to make a pass over the original input in every round (or as long as we don't have space to store the bound evaluations). The cost of each pass is \\( O(N) = O(2^n) \\), which _does not shrink_ as the protocol progresses.
 
-Round batching allows us to reduce the number of passes over the original inputs. Instead of a pass every round in a window of \\( w \\) consecutive rounds, round batching only requires a single streaming pass at the beginning of this window. The increase in evaluation cost is _smaller_ as the rounds progress, costing only \\( 2^{n-i} \\) multiplication per evaluation if we batch at round \\( i \\). Thus, we are trading off more evaluation computations, which scale as \\( (d+1)^w \cdot 2^{n-i} \\), in lieu of a \\( (w-1) \cdot 2^n \\) cost saved by doing fewer streams over the input. With the right schedule—small windows early when evaluation computation is more costly, and larger windows later (increasing exponentially)—we can improve the number of streaming passes **asymptotically** from \\( O(\log n) \\) to \\( O(\log \log n) \\). In practice, this can be as much as a \\( 3-5\times \\) speedup over the original CMT algorithm.
+Round batching reduces the number of passes over the original input: instead of one pass per round within a \\( w \\)-round window, it needs a single pass at the start of the window. If we batch starting at round \\( i \\), the added evaluation work scales as \\( (d+1)^w \cdot 2^{n-i} \\), while we save about \\( (w-1)\cdot 2^n \\) work from skipped streaming passes. With an appropriate schedule—small windows early and larger windows later—we can reduce the number of streaming passes asymptotically from \\( O(\log n) \\) to \\( O(\log \log n) \\), and see \\( 3\text{–}5\\times \\) speedups in practice.
 
 ## Conclusion
 
-The sum-check protocol has become the workhorse of modern proof systems, powering the fastest zkVMs as well as a large number of sub-protocols such as polynomial commitment schemes [11]. In this post, we have seen the evolution of sum-check proving algorithms: from the classic linear-time prover that trades memory for speed, to the streaming algorithm that sacrifices time for a minimal memory footprint. Both approaches share a common limitation—they process rounds sequentially, binding each challenge before moving to the next.
+The sum-check protocol has become the workhorse of modern proof systems, powering the fastest zkVMs as well as a large number of sub-protocols such as polynomial commitment schemes [11]. In this post, we have seen the evolution of sum-check proving algorithms: from the classic linear-time prover that trades memory for speed, to the streaming algorithm that sacrifices time for a minimal memory footprint. Both approaches share a common, intuitive pattern—they process rounds sequentially, binding each challenge before moving to the next.
 
-We then saw how round batching breaks this sequential dependency, leading to two practical wins: it keeps arithmetic in fast, small-value operations for longer, and it reduces the number of streaming passes needed for memory-constrained settings. The technique is already being integrated into Jolt; without the small-value computation, for example, sum-check will be even more of a bottleneck than the current 70% of total prover time.
+We then saw how round batching breaks this sequential dependency, leading to two practical wins: it keeps arithmetic in fast, small-value operations for longer, and it reduces the number of streaming passes in memory-constrained settings. The technique is already being integrated into Jolt, where sum-check is a major bottleneck today.
 
-As zkVMs see broader adoption—from blockchain scalability to privacy-preserving identity—every percentage point of prover speedup translates to real cost savings and expanded applicability. The gap between native execution and proof generation is closing quickly, as algorithmic refinements like round batching and hardware acceleration continue to chip away at the overhead. It is perhaps surprising that we are still extracting efficiency from the sum-check protocol; despite being over three decades old, we continue to find new ways to optimize it for modern constraints.
+As zkVMs see broader adoption—from blockchain scalability to privacy-preserving identity—every percentage point of prover speedup translates to real cost savings and expanded applicability. It is perhaps surprising that we are still extracting efficiency from sum-check; despite being over three decades old, it continues to admit optimizations tailored to modern constraints.
 
 <!-- 
 [^1]: However, it is possible to interpret the coefficients of a multilinear polynomial as evaluations over the set \\( \{0,\infty\}^n \\), under an appropriate definition of "evaluation at infinity". This is a non-standard choice with potential efficiency benefits, but we do not discuss it further here. -->
